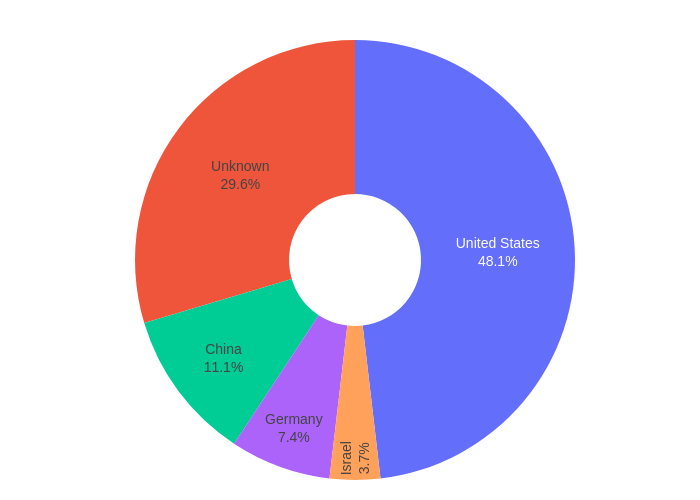
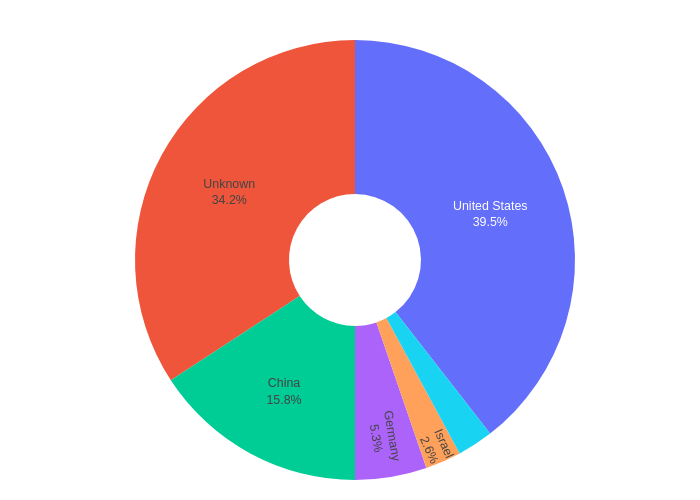
Weekly log analysis update

diff --git a/output/m-2025-06/dashboard.html b/output/m-2025-06/dashboard.html
@@ -96,20 +96,20 @@
   </style>
 </head>
 <body>
-  <h1 class="mb-4">Loucantou traffic recap <small class="text-muted">(2025-06-03 14:21)</small></h1>
+  <h1 class="mb-4">Loucantou traffic recap <small class="text-muted">(2025-06-09 09:14)</small></h1>
 
   <div class="summary">
     <div class="card">
       <div>Total Sessions</div>
-      <div class="value">67</div>
+      <div class="value">88</div>
     </div>
     <div class="card">
       <div>Unique Visitors</div>
-      <div class="value">30</div>
+      <div class="value">39</div>
     </div>
     <div class="card">
       <div>Avg. Session Duration</div>
-      <div class="value">13.3 min</div>
+      <div class="value">10.4 min</div>
     </div>
   </div>
 
@@ -124,21 +124,21 @@
     <thead><tr><th>Referrer URL</th><th>Sessions</th></tr></thead>
     <tbody>
     
-      <tr><td><a href="https://www.google.com/" target="_blank" rel="noopener">https://www.google.com/</a></td><td>6</td></tr>
+      <tr><td><a href="https://www.google.com/" target="_blank" rel="noopener">https://www.google.com/</a></td><td>9</td></tr>
     
-      <tr><td><a href="http://loucantou1.free.fr/" target="_blank" rel="noopener">http://loucantou1.free.fr/</a></td><td>5</td></tr>
+      <tr><td><a href="http://loucantou1.free.fr/" target="_blank" rel="noopener">http://loucantou1.free.fr/</a></td><td>8</td></tr>
+    
+      <tr><td><a href="https://duckduckgo.com/" target="_blank" rel="noopener">https://duckduckgo.com/</a></td><td>5</td></tr>
     
       <tr><td><a href="http://google.com" target="_blank" rel="noopener">http://google.com</a></td><td>3</td></tr>
     
-      <tr><td><a href="http://176.146.197.0:80/" target="_blank" rel="noopener">http://176.146.197.0:80/</a></td><td>2</td></tr>
-    
-      <tr><td><a href="https://duckduckgo.com/" target="_blank" rel="noopener">https://duckduckgo.com/</a></td><td>2</td></tr>
+      <tr><td><a href="http://176.146.197.0:80/" target="_blank" rel="noopener">http://176.146.197.0:80/</a></td><td>3</td></tr>
     
     </tbody>
   </table>
 
   <h2>Countries Distribution</h2>
-  <h3 class="value">France represents 59.7% of the visits</h3>
+  <h3 class="value">France represents 56.8% of the visits</h3>
   <p>The remaining is:</p>
   <img src="https://raw.githubusercontent.com/L-Yvelin/loucantou/refs/heads/main/output/m-2025-06/images/countries_pie_excluding_france.png" alt="Countries Distribution" loading="lazy" />
 
